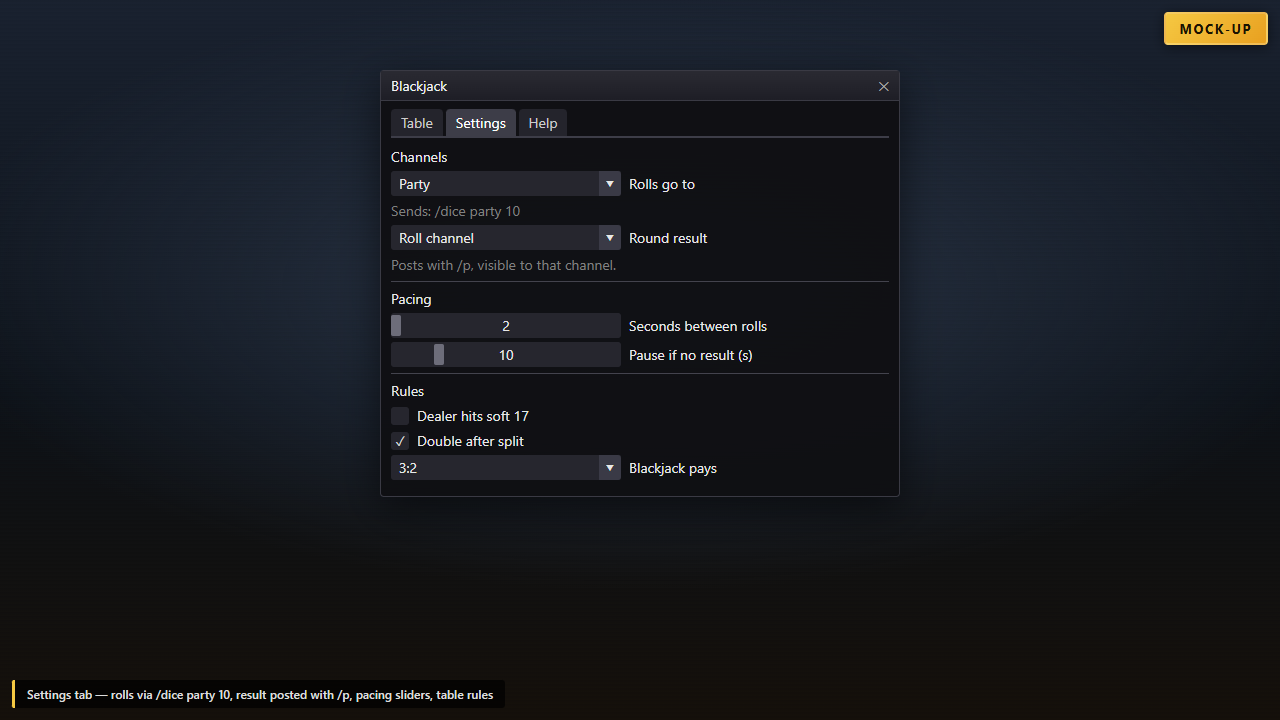
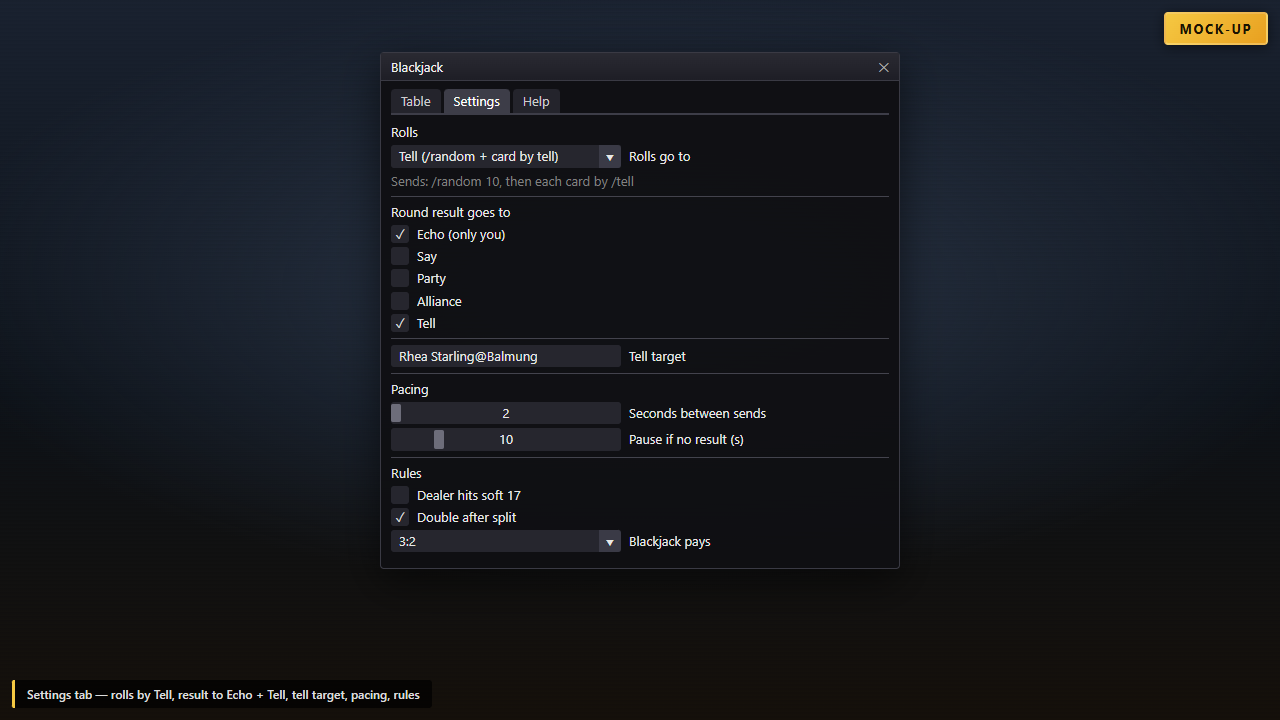
docs: re-render mock-up screenshots for the new roll channels

diff --git a/docs/screenshots/src/04-help.html b/docs/screenshots/src/04-help.html
@@ -8,25 +8,28 @@
   <body>
     <div class="game-backdrop"></div>
     <div class="mockup-banner">Mock-up</div>
-    <div class="scene-label">Help tab — /bj help opens it: cards, a round, moves, channels, result, safety, limits</div>
-    <div class="imgui-window" style="top: 56px; left: 330px; width: 620px; font-size: 13px;">
+    <div class="scene-label">Help tab — /bj help opens it: each rule with its reason (one scrolling column in game, two columns here to fit)</div>
+    <div class="imgui-window" style="top: 52px; left: 40px; width: 1200px; font-size: 12px;">
       <div class="imgui-titlebar"><span>Blackjack</span><span class="close">✕</span></div>
-      <div class="imgui-body">
+      <div class="imgui-body" style="line-height: 1.35;">
         <div class="tabs"><span class="tab">Table</span><span class="tab">Settings</span><span class="tab active">Help</span></div>
-        <div class="t">Cards</div>
-        <div class="wrap">Each card is one roll of 1-10. 1 = Ace (1 or 11). 10 = face card. Closest to 21 without going over wins.</div>
-        <div class="t">A round</div>
-        <div class="wrap">Deal rolls 3 cards: 2 yours, 1 dealer&#x27;s. You choose moves; the plugin rolls the cards. After you stand, the dealer draws to 17. 21 stands automatically.</div>
-        <div class="t">Moves</div>
-        <div class="wrap">Hit: one card.  Stand: end the hand.  Double: first two cards only; one card at 2x stake, then stand.  Split: a pair becomes two hands, each dealt a second card.</div>
-        <div class="t">Channels</div>
-        <div class="wrap">Say radius uses /random 10. Any other choice uses /dice &lt;channel&gt; 10, seen only by that channel. Only your own roll in that channel counts as a card.</div>
-        <div class="t">Round result</div>
-        <div class="wrap">Off, Echo (only you see it), or posted to the roll channel as one line.</div>
-        <div class="t">Safety</div>
-        <div class="wrap">Nothing rolls until you press a button, never faster than the set spacing (2 s minimum). No result within the pause time stops rolling until you press Resume. Logging out abandons the round.</div>
-        <div class="t">Limits</div>
-        <div class="wrap">English client only. Bets and gil are not handled; stakes are units.</div>
+        <div style="column-count: 2; column-gap: 28px;">
+          <div style="break-inside: avoid;"><div class="t">Cards</div><div class="wrap">One roll of 1-10 is one card. 1 is an Ace, 10 is a face card. Closest to 21 without going over wins. Why: /random 10 gives every value the same 1-in-10 chance and anyone nearby can see the roll, so nobody has to trust a hidden deck.</div></div>
+          <div style="break-inside: avoid;"><div class="t">Ace counts 1 or 11</div><div class="wrap">It counts as 11 whenever that does not bust you. Why: the Ace is never a bad card, so a hand with one is &#x27;soft&#x27; and can take a card without busting.</div></div>
+          <div style="break-inside: avoid;"><div class="t">Tens are rarer here</div><div class="wrap">A deck has four 10-value ranks (10, J, Q, K), so 31% of its cards are tens; a roll of 10 is 10%. Why it matters: 20s and naturals come up less often than at a casino table, and the dealer busts less.</div></div>
+          <div style="break-inside: avoid;"><div class="t">The dealer draws to 17</div><div class="wrap">Below 17 the dealer must hit; on 17 or more the dealer must stand. Why: a fixed rule means the dealer makes no choices and cannot favour anyone. 17 is the standard casino line.</div></div>
+          <div style="break-inside: avoid;"><div class="t">Dealer hits soft 17 (setting)</div><div class="wrap">Makes the dealer draw again on Ace+6. Why: it slightly improves the house&#x27;s odds, so it is off by default.</div></div>
+          <div style="break-inside: avoid;"><div class="t">You act first</div><div class="wrap">If you bust you lose, even if the dealer busts afterwards. Why: this is where the house&#x27;s edge comes from in blackjack.</div></div>
+          <div style="break-inside: avoid;"><div class="t">Double</div><div class="wrap">First two cards only: the stake doubles, you take exactly one card, then stand. Why: you are betting more on a strong start (typically 10 or 11), so you give up the right to keep hitting.</div></div>
+          <div style="break-inside: avoid;"><div class="t">Split</div><div class="wrap">Only on a pair, once per round. Each card starts its own hand. Why: a pair like 8+8 makes a poor 16, but two hands starting from 8 each can still win. One split keeps the round short.</div></div>
+          <div style="break-inside: avoid;"><div class="t">Double after split (setting)</div><div class="wrap">Lets each split hand double on its first two cards. On by default; turning it off favours the house.</div></div>
+          <div style="break-inside: avoid;"><div class="t">Blackjack (natural)</div><div class="wrap">Ace + 10 on your first two cards. It pays 3:2 by default and ties a dealer natural. Why: it is the rarest strong hand (2% here), so it pays more. 6:5 or 1:1 favours the house. A 21 after a split is an ordinary 21: it is not your original two-card hand, which is the standard casino rule.</div></div>
+          <div style="break-inside: avoid;"><div class="t">21 stands automatically</div><div class="wrap">Why: no card can improve 21.</div></div>
+          <div style="break-inside: avoid;"><div class="t">Channels</div><div class="wrap">Say rolls /random (say radius). Party and Alliance roll /dice there, so only that group sees it. Tell rolls /random and tells each card to the named player. Why: the game cannot roll into a tell, so the roll stays public and the tell only relays it.</div></div>
+          <div style="break-inside: avoid;"><div class="t">Round result</div><div class="wrap">Tick any mix of Echo (only you), Say, Party, Alliance and Tell; each gets the same one-line result.</div></div>
+          <div style="break-inside: avoid;"><div class="t">Safety</div><div class="wrap">Nothing rolls until you press a button. Every roll or post is at least the set spacing apart (2 s minimum), to stay clear of chat spam limits. Only your own roll counts as a card, so nobody else can feed you cards. If no result arrives in time, rolling pauses rather than re-rolling, so a lost roll is never counted twice. Logging out abandons the round.</div></div>
+          <div style="break-inside: avoid;"><div class="t">Limits</div><div class="wrap">English client only. Bets and gil are not handled; stakes are units.</div></div>
+        </div>
       </div>
     </div>
   </body>

diff --git a/docs/screenshots/src/03-settings.html b/docs/screenshots/src/03-settings.html
@@ -8,19 +8,26 @@
   <body>
     <div class="game-backdrop"></div>
     <div class="mockup-banner">Mock-up</div>
-    <div class="scene-label">Settings tab — rolls via /dice party 10, result posted with /p, pacing sliders, table rules</div>
-    <div class="imgui-window" style="top: 70px; left: 380px; width: 520px;">
+    <div class="scene-label">Settings tab — rolls by Tell, result to Echo + Tell, tell target, pacing, rules</div>
+    <div class="imgui-window" style="top: 52px; left: 380px; width: 520px; font-size: 13px;">
       <div class="imgui-titlebar"><span>Blackjack</span><span class="close">✕</span></div>
-      <div class="imgui-body">
+      <div class="imgui-body" style="line-height: 1.4;">
         <div class="tabs"><span class="tab">Table</span><span class="tab active">Settings</span><span class="tab">Help</span></div>
-        <div class="t">Channels</div>
-        <div class="field-row"><div class="combo">Party</div><span>Rolls go to</span></div>
-        <div class="t dis">Sends: /dice party 10</div>
-        <div class="field-row"><div class="combo">Roll channel</div><span>Round result</span></div>
-        <div class="t dis">Posts with /p, visible to that channel.</div>
+        <div class="t">Rolls</div>
+        <div class="field-row"><div class="combo">Tell (/random + card by tell)</div><span>Rolls go to</span></div>
+        <div class="t dis">Sends: /random 10, then each card by /tell</div>
+        <div class="sep"></div>
+        <div class="t">Round result goes to</div>
+        <div class="field-row"><span class="checkbox-box">✓</span><span>Echo (only you)</span></div>
+        <div class="field-row"><span class="checkbox-box"></span><span>Say</span></div>
+        <div class="field-row"><span class="checkbox-box"></span><span>Party</span></div>
+        <div class="field-row"><span class="checkbox-box"></span><span>Alliance</span></div>
+        <div class="field-row"><span class="checkbox-box">✓</span><span>Tell</span></div>
+        <div class="sep"></div>
+        <div class="field-row"><div class="combo input">Rhea Starling@Balmung</div><span>Tell target</span></div>
         <div class="sep"></div>
         <div class="t">Pacing</div>
-        <div class="field-row"><div class="slider"><div class="grab" style="left: calc(0% * 0.94)"></div><span>2</span></div><span>Seconds between rolls</span></div>
+        <div class="field-row"><div class="slider"><div class="grab" style="left: calc(0% * 0.94)"></div><span>2</span></div><span>Seconds between sends</span></div>
         <div class="field-row"><div class="slider"><div class="grab" style="left: calc(20% * 0.94)"></div><span>10</span></div><span>Pause if no result (s)</span></div>
         <div class="sep"></div>
         <div class="t">Rules</div>

diff --git a/docs/screenshots/src/05-random-chat-result.html b/docs/screenshots/src/05-random-chat-result.html
@@ -2,20 +2,26 @@
 <html lang="en">
   <head>
     <meta charset="UTF-8" />
-    <title>Mock-up: Say radius rolls and result</title>
+    <title>Mock-up: Tell rolls and result</title>
     <link rel="stylesheet" href="common.css" />
   </head>
   <body>
     <div class="game-backdrop"></div>
     <div class="mockup-banner">Mock-up</div>
-    <div class="scene-label">Say radius — Deal rolls A, 7, then 6; after Stand the dealer draws 10, 5; result echoed in one line</div>
+    <div class="scene-label">Tell — /random 10 in say radius, each card relayed by /tell; result echoed and told in one line</div>
     <div class="chat-panel">
       <div class="chat-line random">Random! You roll a 1 (out of 10).</div>
+      <div class="chat-line tell">&gt;&gt; Rhea Starling@Balmung: Card: A (you soft 11)</div>
       <div class="chat-line random">Random! You roll a 7 (out of 10).</div>
+      <div class="chat-line tell">&gt;&gt; Rhea Starling@Balmung: Card: 7 (you soft 18)</div>
       <div class="chat-line random">Random! You roll a 6 (out of 10).</div>
+      <div class="chat-line tell">&gt;&gt; Rhea Starling@Balmung: Dealer card: 6 (dealer 6)</div>
       <div class="chat-line random">Random! You roll a 10 (out of 10).</div>
+      <div class="chat-line tell">&gt;&gt; Rhea Starling@Balmung: Dealer card: 10 (dealer 16)</div>
       <div class="chat-line random">Random! You roll a 5 (out of 10).</div>
       <div class="chat-line echo">Blackjack: you 18 lose | dealer 21 | -1 unit(s)</div>
+      <div class="chat-line tell">&gt;&gt; Rhea Starling@Balmung: Dealer card: 5 (dealer 21)</div>
+      <div class="chat-line tell">&gt;&gt; Rhea Starling@Balmung: Blackjack: you 18 lose | dealer 21 | -1 unit(s)</div>
     </div>
     <div class="chat-hint">Illustrative chat lines — not a real client log</div>
     <div class="imgui-window" style="top: 70px; right: 48px; width: 460px;">
@@ -32,5 +38,6 @@
         <div class="t">Round: -1 unit(s)</div>
       </div>
     </div>
+    <div class="callout" style="top: 360px; right: 48px; max-width: 460px">The game cannot roll into a tell: the roll stays public in say range and the tell only relays the card. The echo prints at once; the last card and the result tell wait for the send spacing.</div>
   </body>
 </html>

diff --git a/docs/screenshots/src/common.css b/docs/screenshots/src/common.css
@@ -183,6 +183,10 @@ body {
   border-radius: 0 3px 3px 0;
 }
 
+.combo.input::after {
+  content: none;
+}
+
 .slider {
   text-align: center;
   font-variant-numeric: tabular-nums;
@@ -242,6 +246,10 @@ body {
 
 .chat-line.party {
   color: #66e5ff;
+}
+
+.chat-line.tell {
+  color: #f2a6d6;
 }
 
 .chat-line.other {

diff --git a/README.md b/README.md
@@ -16,9 +16,9 @@ These images are **mock-ups** (HTML rendered to PNG). They are not real in-game 
 | --- | --- |
 | ![Table mock-up](docs/screenshots/01-table-your-move.png) | **Your move** — Table tab after the deal: A 7 (soft 18) against the dealer's 6, with Hit, Stand and Double enabled. |
 | ![Split round mock-up](docs/screenshots/02-split-round-over.png) | **Split, double and settle** — two hands from a pair of 8s, Hand 2 doubled, dealer stands on soft 18, with per-hand results and the round net. |
-| ![Settings mock-up](docs/screenshots/03-settings.png) | **Settings** — rolls sent with `/dice party 10`, the result posted with `/p`, the pacing sliders and the table rules. |
-| ![Help mock-up](docs/screenshots/04-help.png) | **Help** — the tab `/bj help` opens: cards, a round, moves, channels, result, safety and limits. |
-| ![Say radius rolls mock-up](docs/screenshots/05-random-chat-result.png) | **`/random 10` in the say radius** — each `Random! You roll a N (out of 10).` line becomes a card, and the round result is echoed as one line. |
+| ![Settings mock-up](docs/screenshots/03-settings.png) | **Settings** — rolls by Tell (`/random 10`, then each card by `/tell`), the round result ticked for Echo and Tell, the tell target, the pacing sliders and the table rules. |
+| ![Help mock-up](docs/screenshots/04-help.png) | **Help** — the tab `/bj help` opens: each rule with the reason behind it, the channel choices, the round result, safety and limits (two columns here; one scrolling column in game). |
+| ![Tell rolls mock-up](docs/screenshots/05-random-chat-result.png) | **Tell** — each `Random! You roll a N (out of 10).` in the say radius becomes a card and is told to the player (`Card: A (you soft 11)`, `Dealer card: 10 (dealer 16)`); the round result is echoed and told as one line. |
 | ![Party dice mock-up](docs/screenshots/06-dice-party-dealing.png) | **`/dice party 10`** — only your own roll counts as a card; another party member's roll is ignored. |
 
 ## What it does
